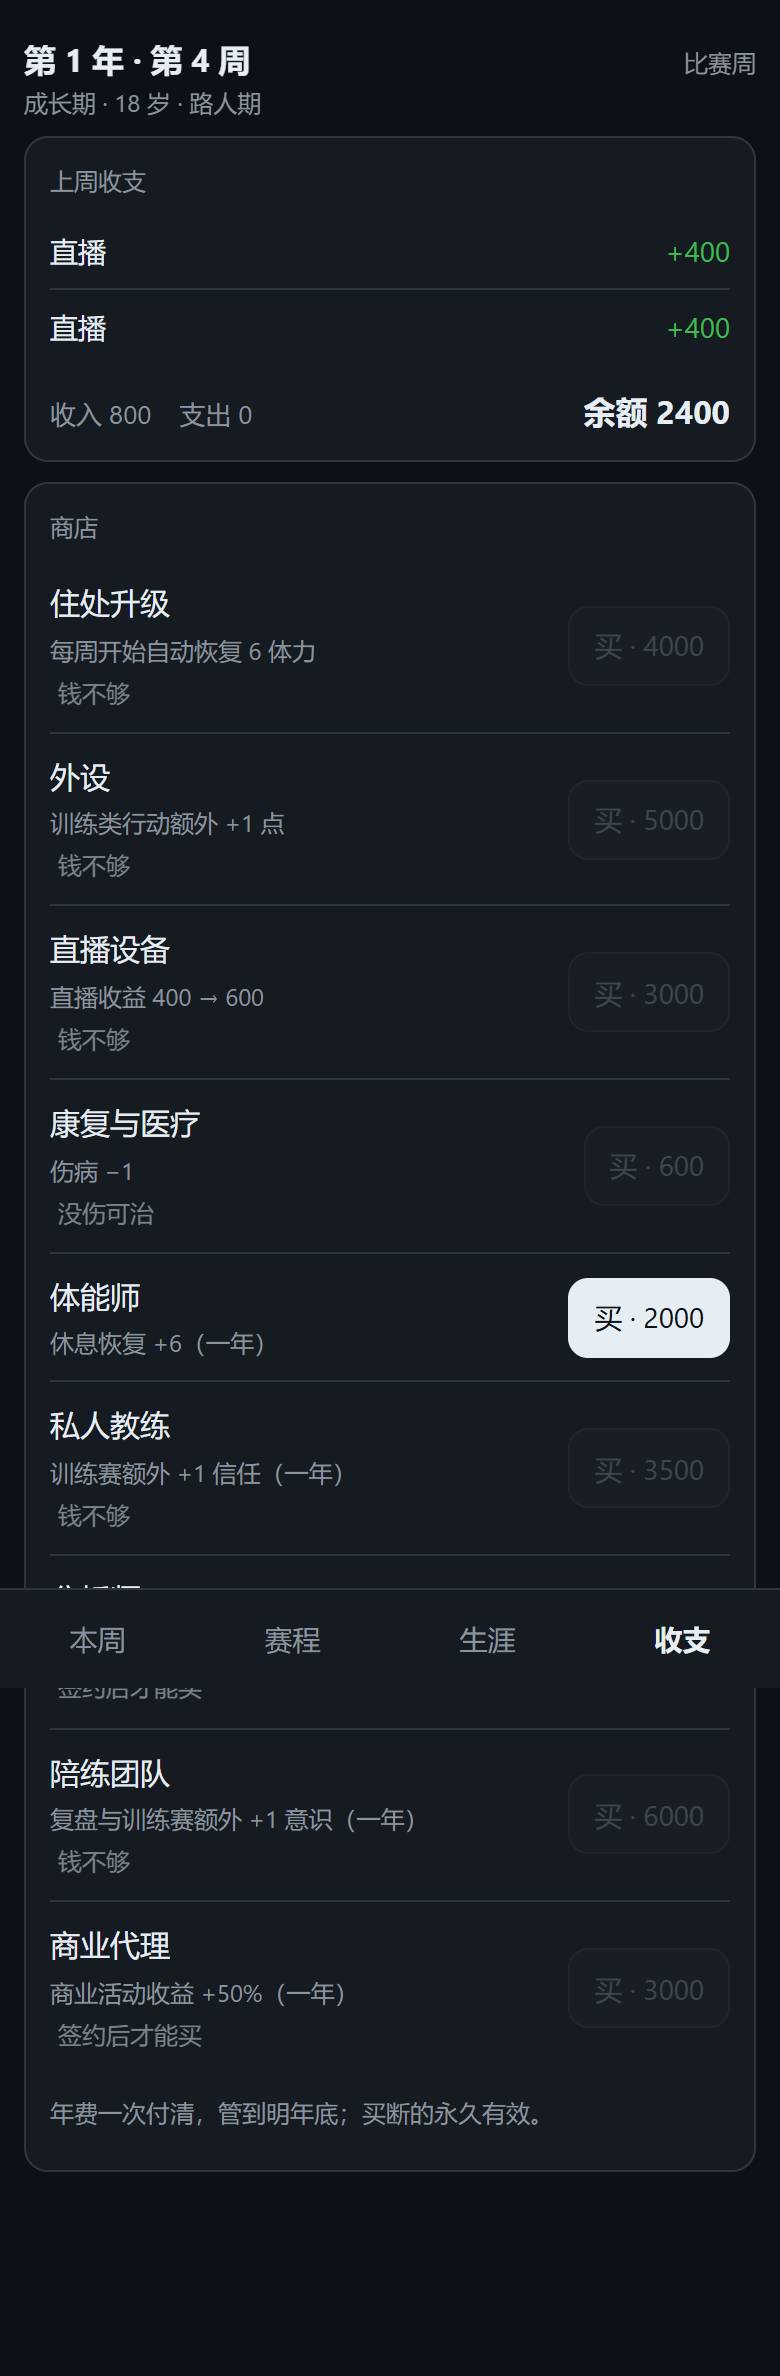
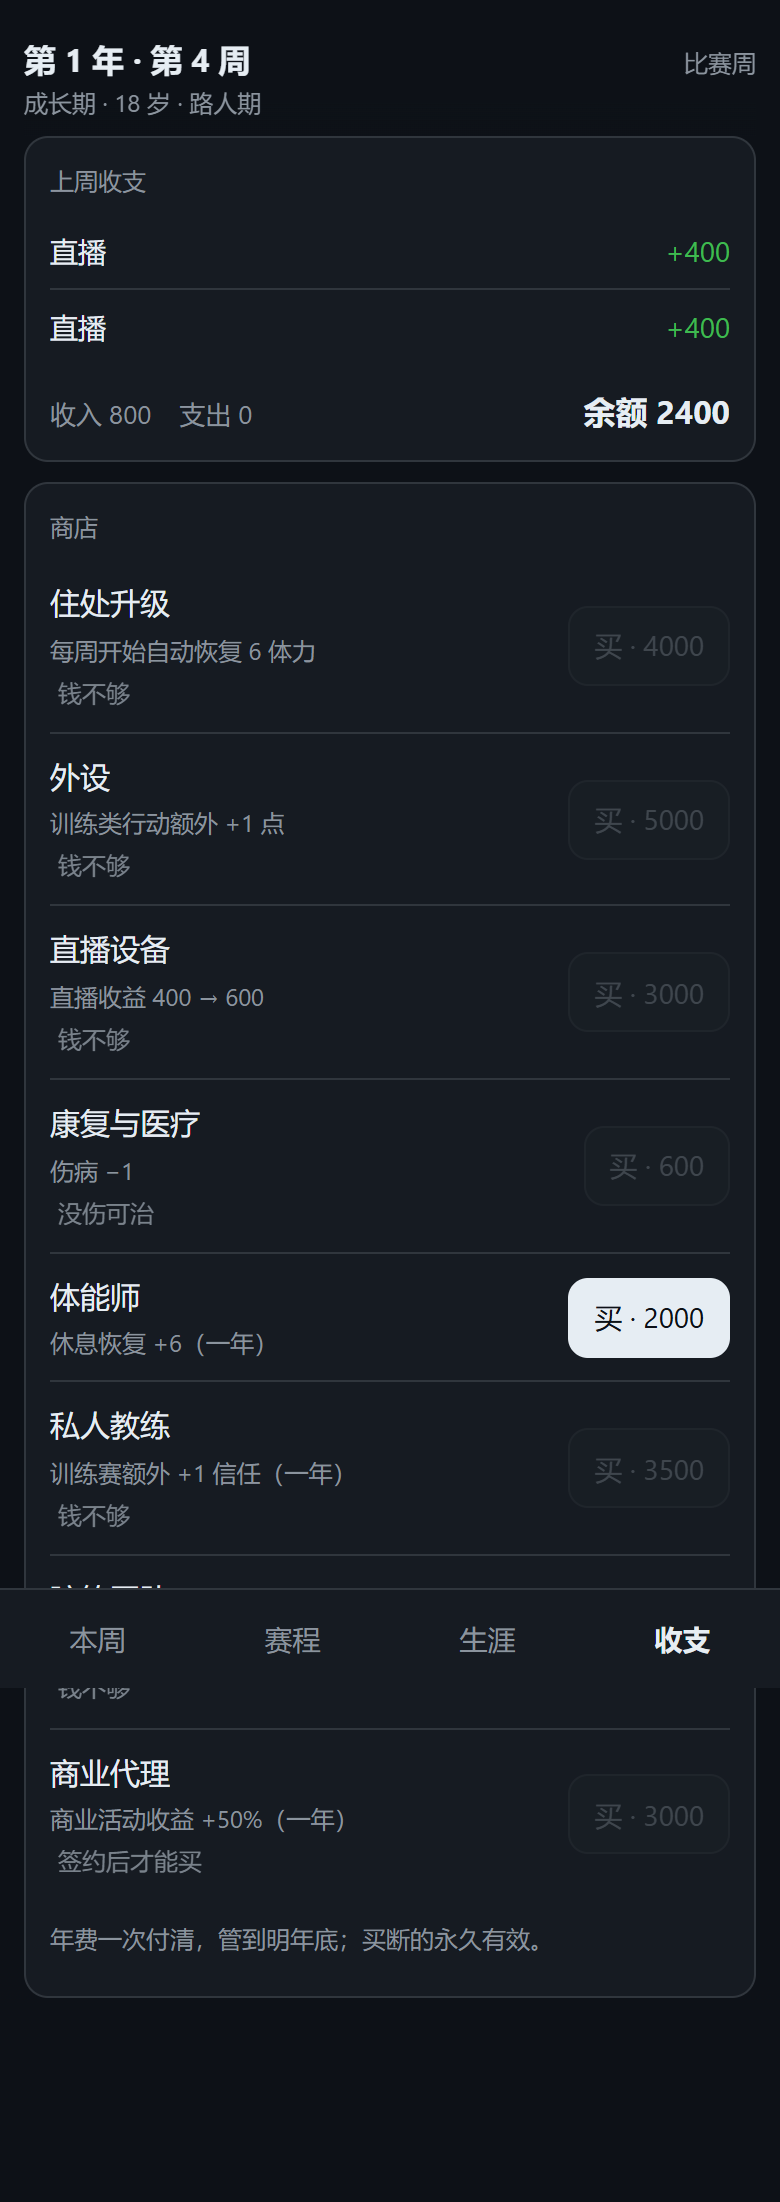
chore(shop): 删掉没用的分析师（商店剩八项）

diff --git a/src/ui/main.ts b/src/ui/main.ts
@@ -5,12 +5,11 @@ import { ACTION_INFO, canAfford, isActionUnlocked, staminaCost } from '../core/a
 import { loadSaved, persist } from '../core/save';
 import { ageOf, isMatchWeek, newGame, phaseOfYear } from '../core/state';
 import { rankOf } from '../core/ladder';
-import { myPlace, myOvr, mySquad, nextFixture, rivalStrength, startRequirement, upcomingFixtures, standings, isStarting } from '../core/league';
+import { myPlace, myOvr, mySquad, nextFixture, startRequirement, upcomingFixtures, standings, isStarting } from '../core/league';
 import {
   SHOP,
   buy,
   buyBlocker,
-  hasAnalyst,
   hasOnce,
   subActive,
   subUntil,
@@ -444,14 +443,8 @@ function renderSchedule(): string {
     ? `<div class="next"><span>下一场</span><b>${esc(next.rivalName)}</b><span class="mini">第 ${next.week} 周</span></div>`
     : '<div class="next"><span>本季常规赛打完了</span></div>';
 
-  const showStrength = hasAnalyst(state);
   const list = upcoming
-    .map((f) => {
-      const st = showStrength
-        ? `<span class="mini">${Math.round(rivalStrength(state.year, f.rivalId))}</span>`
-        : '';
-      return `<li><span class="w">W${f.week}</span><span class="t">${esc(f.rivalName)}</span>${st}</li>`;
-    })
+    .map((f) => `<li><span class="w">W${f.week}</span><span class="t">${esc(f.rivalName)}</span></li>`)
     .join('');
 
   const squadRows = mySquad(state);

diff --git a/src/core/shop.ts b/src/core/shop.ts
@@ -58,14 +58,6 @@ export const SHOP: ShopItem[] = [
     price: CONFIG.shop.coach.price,
   },
   {
-    id: 'analyst',
-    label: '分析师',
-    effect: '赛程里看得到对手强度（一年）',
-    shape: 'year',
-    price: CONFIG.shop.analyst.price,
-    needsContract: true,
-  },
-  {
     id: 'sparring',
     label: '陪练团队',
     effect: `复盘与训练赛额外 +${CONFIG.shop.sparring.awarenessBonus} 意识（一年）`,
@@ -145,10 +137,6 @@ export function scrimTrustBonus(state: GameState): number {
 
 export function awarenessBonus(state: GameState): number {
   return subActive(state, 'sparring') ? CONFIG.shop.sparring.awarenessBonus : 0;
-}
-
-export function hasAnalyst(state: GameState): boolean {
-  return subActive(state, 'analyst');
 }
 
 /** 这条能不能买，返回 null 表示能买。 */

diff --git a/src/config.ts b/src/config.ts
@@ -69,7 +69,6 @@ export const CONFIG = {
     clinic: { price: 600 },
     trainer: { price: 2000, restBonus: 6 },
     coach: { price: 3500, scrimTrust: 1 },
-    analyst: { price: 4500 },
     sparring: { price: 6000, awarenessBonus: 1 },
     agent: { price: 3000, businessMultiplier: 1.5 },
   },
